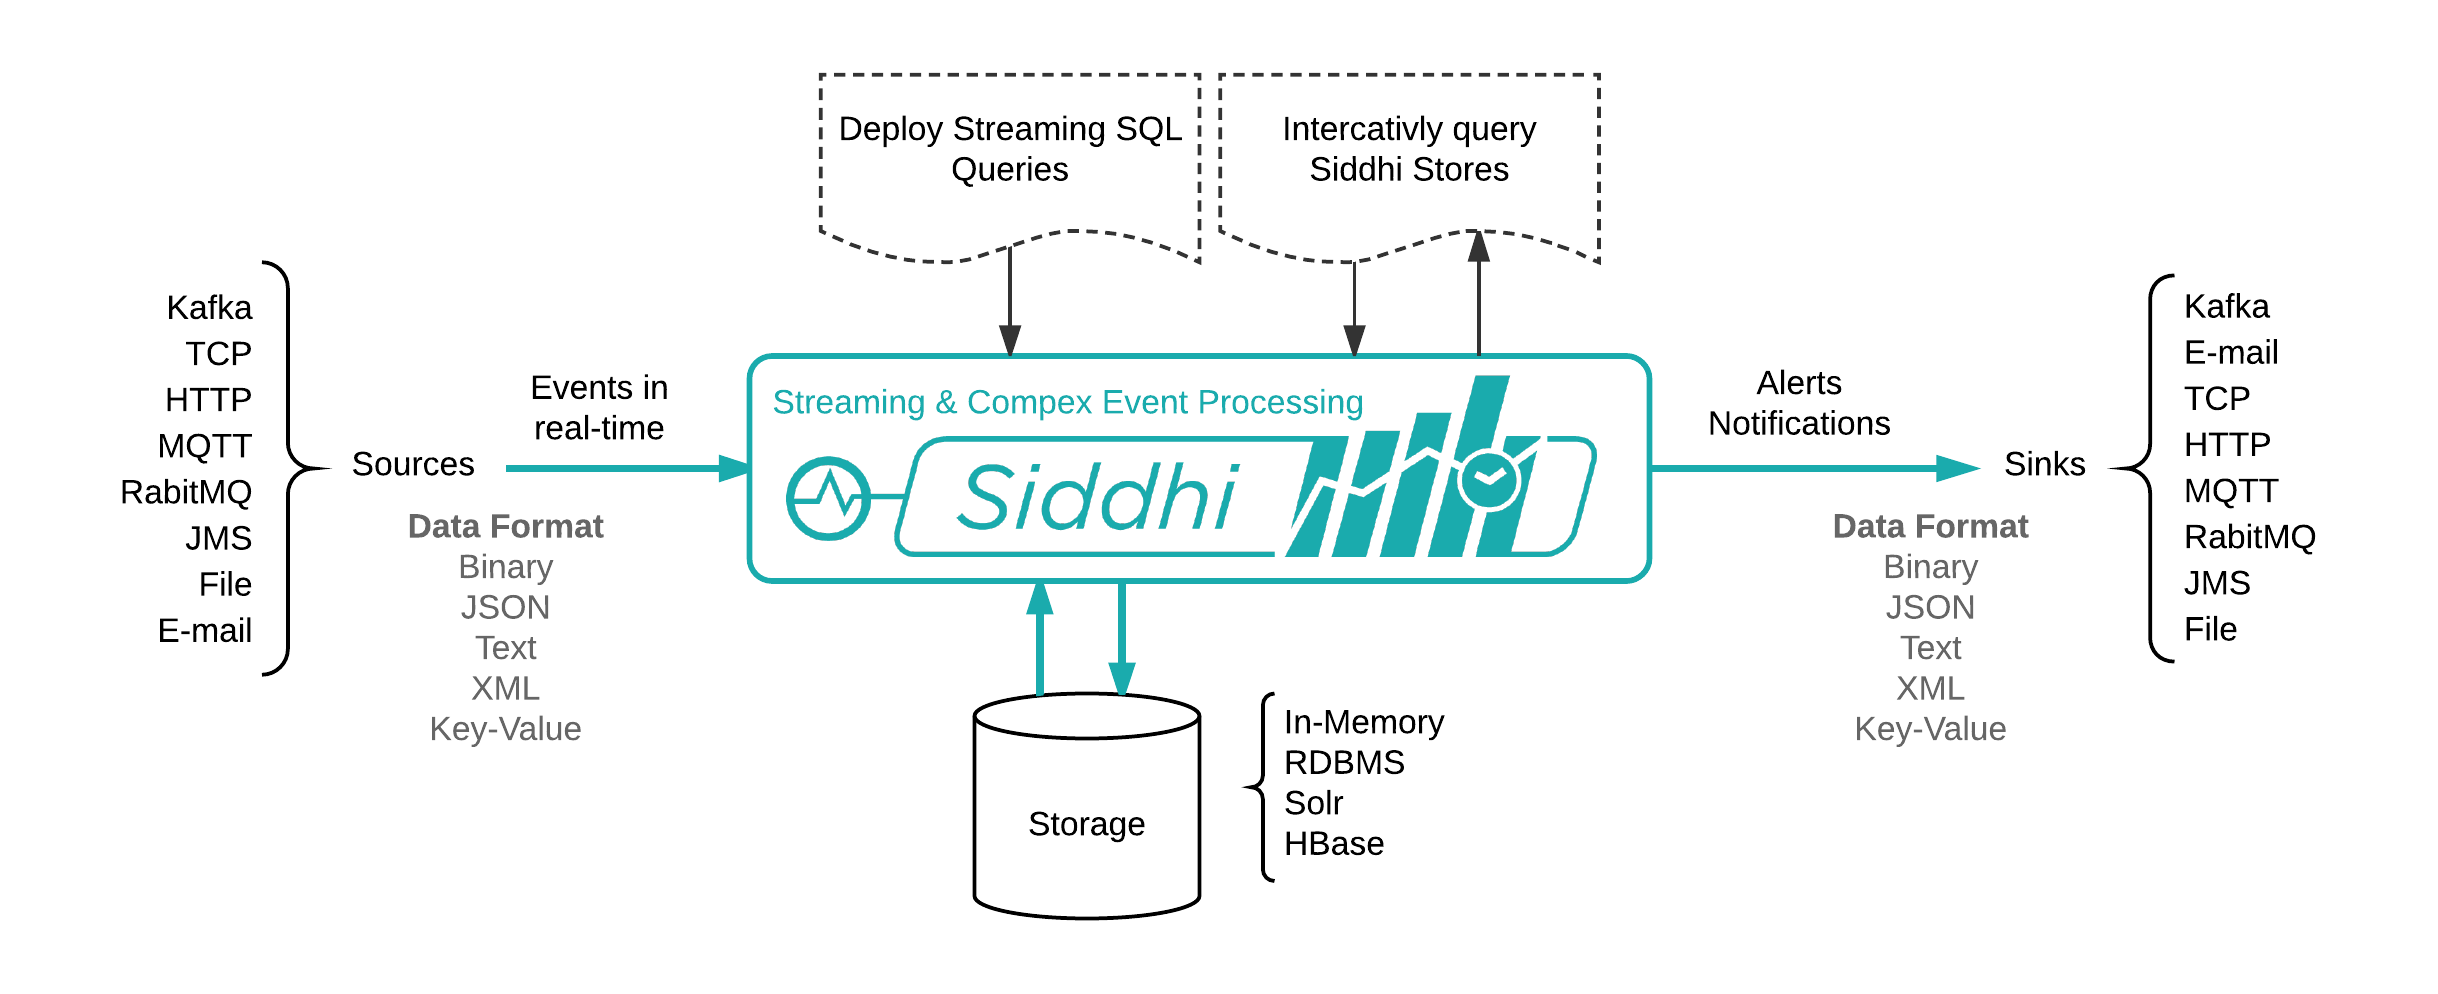
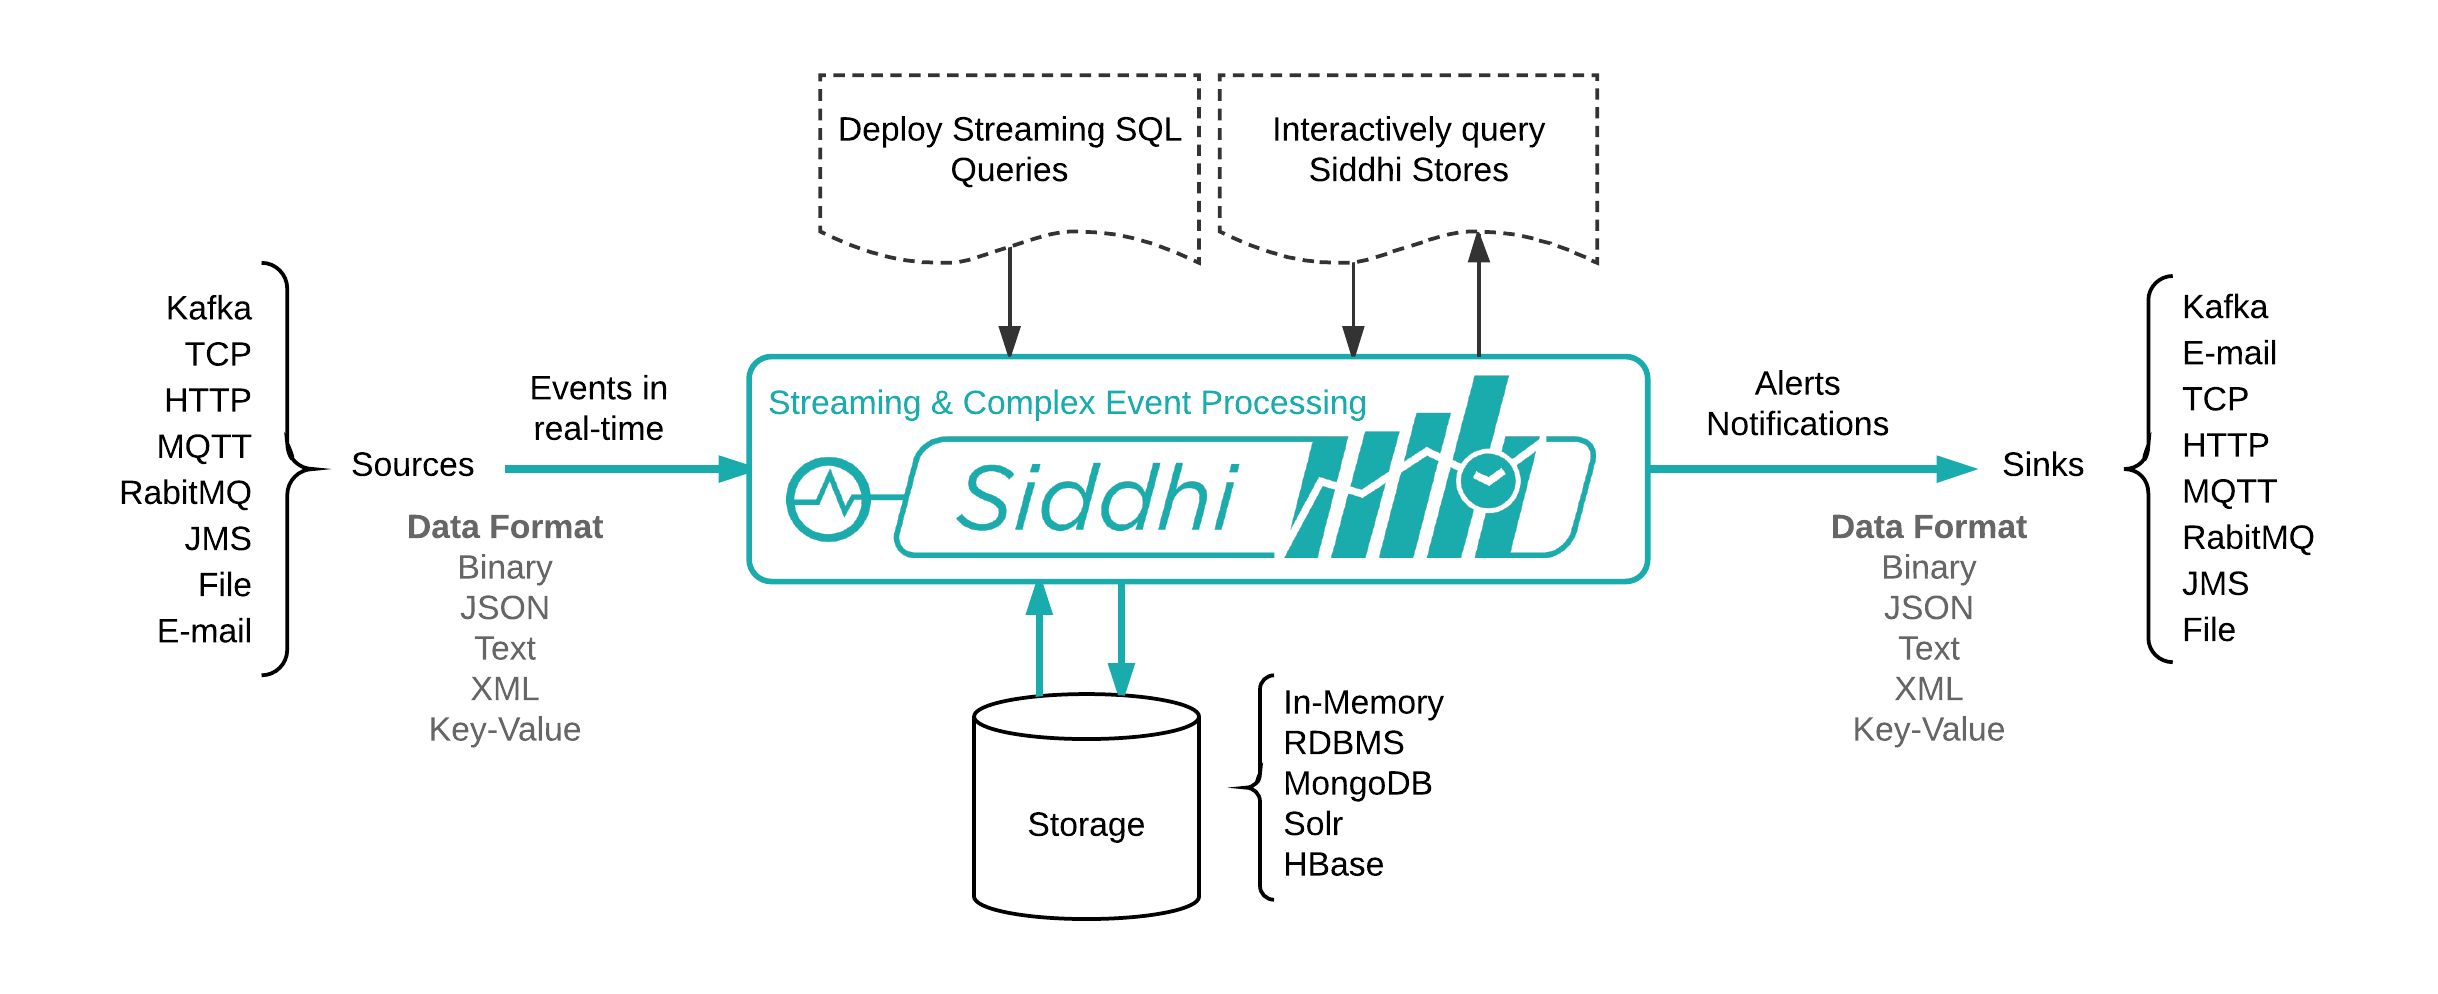
Adding Images and initial content for Siddhi Architecture

diff --git a/docs/documentation/siddhi-architecture.md b/docs/documentation/siddhi-architecture.md
@@ -1,0 +1,74 @@
+# Siddhi Architecture 
+
+WSO2 Siddhi is a software that can run as server by it own or within WSO2 Stream Processor, embalmed in to Java based 
+systems and Android applications to provide analytical operators, orchestrate data flow, calculate analytics, and detect
+patterns on event data from multiple, disparate live data sources to allow developers to build applications that sense, 
+think, and act in real time.
+
+This section illustrate the architecture of Siddhi and take you through its key functionality; We hope that the article 
+will help developers to better understand the code, and will help them to better used siddhi, fix bugs and also improve Siddhi. 
+
+## Main design decisions behind Siddhi
+
+- Siddhi is implemented specifically for event by event processing of real-time streaming data. 
+- It provides an intuitive way to expressing stream processing logic and Complex 
+Event Processing constructs like Patterns and Sequences with its Siddhi Streaming SQL.  
+- It processes all events in-memory and when necessary it also keeps its processing state in-memory. 
+- It enforces strict schema for event streams such that it can precompile the queries to support efficient event data retrieval, 
+manipulation, optimise performance and to optimise memory consumption.  
+- All processing is optimise for memory consumption by only having the absolute necessary information in memory and 
+dropping the rest as soon as possible. 
+- Have multiple extension points to support diverse set of functionality such as supporting multiple sources, sinks, functions, 
+aggregation operations, windows and many more.
+
+## High level architecture
+
+![Simple Siddhi Overview](../images/architecture/siddhi-overview-simple.png?raw=true "Simple Siddhi Overview")
+ 
+In very high level Siddhi consumes events from various events source processed them according to the defined Siddhi application 
+ and produce results to subscribed event sinks. 
+ Siddhi stores its processing events in in-memory table or when configured on external data stores such as `RDBMS`, `MangoDB`, 
+ `Hazelcast` in-memory grid, etc. Siddhi also allows applications and users to query Siddhi via its Store Query API to interactively 
+ retrieve data from its in-memory and other stores.
+ 
+### Main Components of Siddhi
+
+Siddhi comprises four main components, they are: 
+
+- **Siddhi Query API** : This let you define execution logic via the Siddhi application and its queries and definitions using POJO classes. 
+Internally Siddhi uses these object to understand what user expects Siddhi to do. 
+
+- **Siddhi Query Compiler** : This let you use the Siddhi Streaming SQL to define the Siddhi application and its queries and definitions, 
+ and it converts the Streaming SQL to Siddhi Query Objects such that Siddhi to execute them. 
+ 
+- **Siddhi Core** : This is responsible for building the execution runtime and processing events as and when they arrive. 
+ 
+- **Siddhi Annotation** : This is a helping component that lets all extensions to be annotated such that they can be 
+pricked by Siddhi Core for processing and help you generate appropriate documentation. 
+
+###Siddhi Component Architecture 
+
+The following diagram gives more detail information on all the sub components of Siddhi and the flow of events though them. 
+
+![Siddhi Component Architecture](../images/architecture/siddhi-architecture.png "Siddhi Component Architecture")
+ 
+####Siddhi components
+
+- Stream Junction
+    
+    Responsible for routing events to various components within Siddhi core, there will a Stream Junction for each 
+    defined or inferred stream in the siddhi Siddhi App 
+    
+- Table
+- Window
+- Trigger 
+- Aggregation 
+
+- Query
+    - filter
+    - window
+    - join 
+    - pattern/sequence 
+    
+- Partition
+    - inner stream
